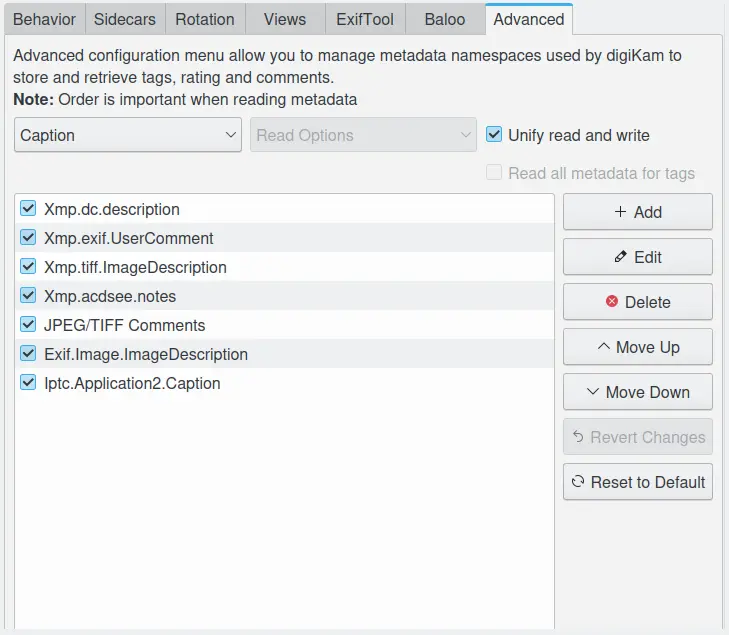
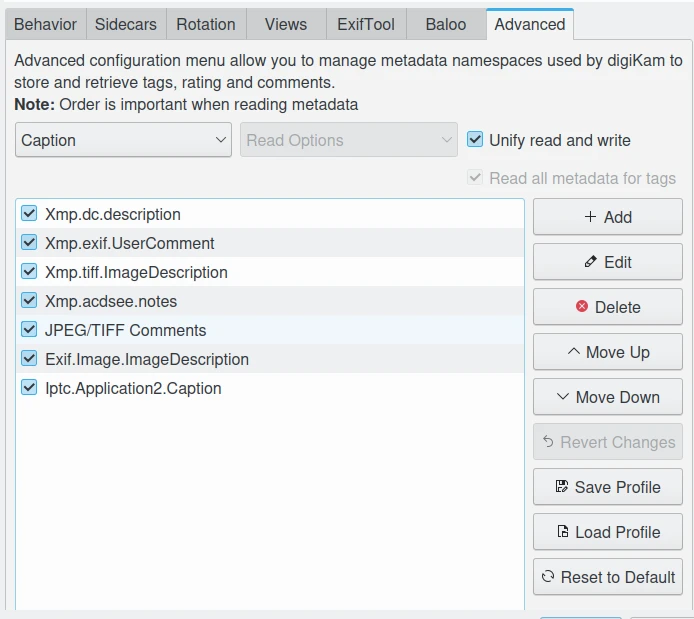
digiKam doc: add Read Profile and Save Profile button description in advanced metadata panel. CCBUGS: 467276

Changed region(s): [[0.0, 0.0, 0.9986, 0.9822], [0.6657, 0.1842, 0.9986, 1.0]]

diff --git a/setup_application/metadata_settings.rst b/setup_application/metadata_settings.rst
@@ -148,7 +148,11 @@ With the buttons on the right side, you can customize the list:
     - **Move up**: allows to move the current select entry in the list to a higher priority.
     - **Move Down**: allows to move the current selected entry in the list to a lower priority.
     - **Revert Changes**: allows to revert last changes done on the list.
+    - **Save Profile**: allows to save the current configuration to a **Profile** file.
+    - **Load Profile**: allows to load a saved configuration from a **Profile** file.
     - **Revert To Default**: allows to reset the current list to the default values.
+
+The **Profile** are simple ini-based text file used to store the advanced metadata settings to the disk. A profile can be loaded to overload the current configuration, depending of your workflow and the rules to apply for the best interoperability with other photo management programs. digiKam comes with a compatibility profile for **DarkTable**.
 
 .. important::
 
